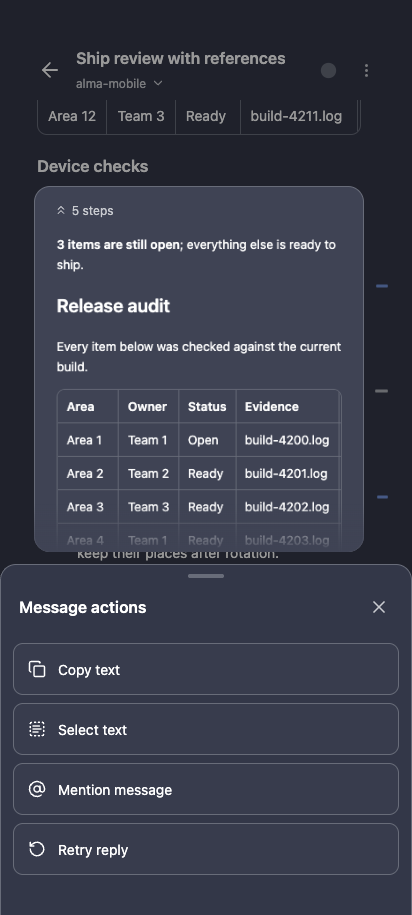
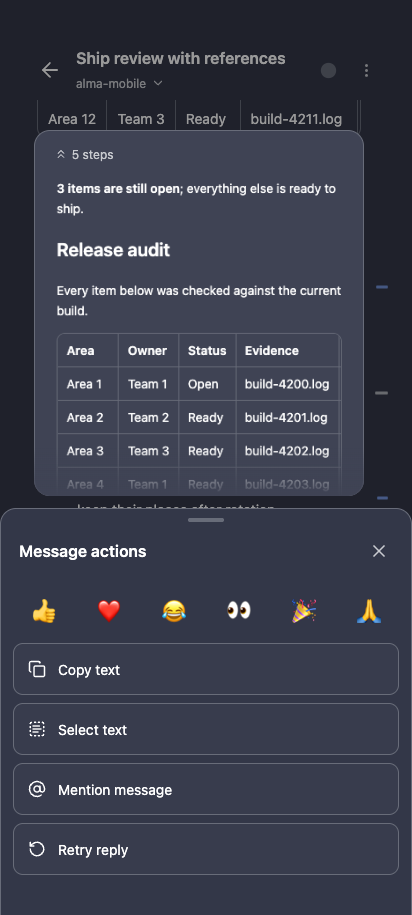
docs: README features for voice input, reactions, computer browser and Herdr on other computers

Changed region(s): [[0.0, 0.1224, 1.0, 0.7038]]

diff --git a/README.md b/README.md
@@ -10,13 +10,13 @@ An unofficial Android client for [Alma Desktop](https://alma.now). Pair it with 
 
 ## Screenshots
 
-| Threads and the floating tab bar                                                                 | Alma                                                                                                   |
-| ------------------------------------------------------------------------------------------------ | ------------------------------------------------------------------------------------------------------ |
-| ![Thread list with the floating tab bar and Alma's thought bubble](docs/screenshots/threads.png) | ![Alma's conversation with her face in the header](docs/screenshots/alma.png)                          |
-| Conversation                                                                                     | Long-press preview and actions                                                                         |
-| ![Conversation with a code block](docs/screenshots/thread-code.png)                              | ![Reply preview card above the message actions with Retry reply](docs/screenshots/message-actions.png) |
-| Files and diffs                                                                                  | Settings (简体中文)                                                                                    |
-| ![Thread files and diff](docs/screenshots/files-diff.png)                                        | ![Settings in Simplified Chinese](docs/screenshots/settings-zh.png)                                    |
+| Threads and the floating tab bar                                                                 | Alma                                                                                                      |
+| ------------------------------------------------------------------------------------------------ | --------------------------------------------------------------------------------------------------------- |
+| ![Thread list with the floating tab bar and Alma's thought bubble](docs/screenshots/threads.png) | ![Alma's conversation with her face in the header](docs/screenshots/alma.png)                             |
+| Conversation                                                                                     | Long-press preview and actions                                                                            |
+| ![Conversation with a code block](docs/screenshots/thread-code.png)                              | ![Reply preview card above quick reactions and the message actions](docs/screenshots/message-actions.png) |
+| Files and diffs                                                                                  | Settings (简体中文)                                                                                       |
+| ![Thread files and diff](docs/screenshots/files-diff.png)                                        | ![Settings in Simplified Chinese](docs/screenshots/settings-zh.png)                                       |
 
 ### Herdr agents, remote desktop and updates
 
@@ -71,13 +71,16 @@ The app connects through Alma's official relay and, when the phone and desktop s
 - **Floating tab bar:** on phones a capsule with Threads, Alma and Herdr; GTD and Settings are icon buttons in the Threads header, and the current desktop's name in the page title opens the desktop switcher.
 - Threads, projects (with project cards and Recent threads), and GTD views
 - Streaming replies, tool calls, approvals, and user questions
-- Long-press a message for a reduced preview card above its actions; retry a reply or resend a failed message from there
+- Long-press a message for a reduced preview card above its actions; react with an emoji, retry a reply or resend a failed message from there
+- Emoji reactions as chips under each message, including the 👀 Alma adds when she starts on yours; tap your own to remove it (Alma desktop 0.4.434+)
 - Composer controls for model, reasoning effort, goals, and loops
 - Thread file panel with diffs, plus HTML and Markdown previews
 - Rich previews: KaTeX math, Mermaid diagrams, audio and video, PDF, CSV/XLSX and DOCX
 - Code-block copy, Android Share-to-Alma, and an image gallery
-- **Herdr coding agents:** for desktops running Herdr, board and list views of workspaces and sessions. Each session has a Chat view drawn with the same message components as threads, and a Terminal view with Fit/Grid layouts, on-demand scrollback and virtual keys. Answer an agent's permission menu from the chat or the session list, use slash commands, follow subagents, mute noisy workspaces, and get an "Agent needs you" alert.
+- **Voice input:** switch a thread or Herdr composer to voice, hold the bar to talk, and release to send, or slide to cancel or to edit the text first. It uses your own key for Soniox (real-time or async), OpenAI, Groq, SiliconFlow or a custom OpenAI-compatible endpoint, falling back to the next engine on failure. Voice messages play in a capsule (Alma desktop 0.4.528+).
+- **Herdr coding agents:** for desktops running Herdr, board and list views of workspaces and sessions. Each session has a Chat view drawn with the same message components as threads, and a Terminal view with Fit/Grid layouts, on-demand scrollback and virtual keys. Answer an agent's permission menu from the chat or the session list, use slash commands, follow subagents, mute noisy workspaces, and get an "Agent needs you" alert. Switch the Herdr page to another computer the desktop reaches, install or start Herdr from the offline page, and start new sessions with the desktop's default agent.
 - **Remote desktop:** watch a paired desktop's screen and control it as a trackpad (tap to click, hold then move to drag, two fingers to scroll or right-click), type text, and wake a sleeping display. Pinch to zoom 1–4x or switch between Fit and 1:1, pan with one finger, and on macOS pick another display or a single app window to stream.
+- **Computer browser:** from a thread's menu, or the globe in its header while Alma has a browser open, watch and drive Alma's in-app browser on the desktop. Tap, scroll, pinch to zoom and type; go back, forward or reload; switch or open tabs; and open any address, including ones only the desktop can reach such as localhost.
 - **LAN direct:** on the same Wi-Fi the app talks to the desktop directly instead of through the relay; the switcher shows a Wi-Fi icon for LAN or a globe for the relay.
 - Multiple desktops with macOS, Windows or Linux icons and live latency
 - Desktop Base46 theme palettes
@@ -97,6 +100,7 @@ There is no push service. Notifications are generated locally from the live rela
 - Multiple desktops are isolated by pairing.
 - The pairing link is a full-access secret. See [SECURITY.md](SECURITY.md) before sharing diagnostics or reporting a vulnerability.
 - The client intentionally blocks known dangerous desktop routes that it does not need.
+- Voice input stays off until you add a speech engine key. Recordings go from the phone straight to the engines you turn on; each key is stored encrypted on the device and sent only to its provider's https/wss endpoint.
 
 The contributor-facing protocol notes are in [docs/protocol.md](docs/protocol.md).
 

diff --git a/README.zh-CN.md b/README.zh-CN.md
@@ -78,6 +78,10 @@
 - **0.1.4 新增 · 更好用的 Mac 控制：** 独立触控板区域；轻点是点击、滑动只移动光标、双指轻点是右键、双指滑动是滚动，长按或双击按住后拖动可以选文字。
 - **0.1.4 新增 · 桌面系统图标：** 已配对桌面显示 macOS、Windows 或 Linux 图标；桌面不支持屏幕共享时，Mac 屏幕会说明原因。
 - 丰富预览：KaTeX 公式、Mermaid 图表、音视频、PDF、CSV/XLSX 和 DOCX
+- **0.1.9 新增 · 语音输入：** 对话和 Herdr 的输入框可切到语音，按住说话、松手发送，滑到取消或编辑可先放弃或改字。使用你自己的 Soniox（实时或异步）、OpenAI、Groq、SiliconFlow 或自定义 OpenAI 兼容接口的 key，一个引擎失败自动换下一个。语音消息以胶囊播放（Alma 桌面 0.4.528 及以上）。
+- **0.1.9 新增 · 表情反应：** 消息下方显示表情反应，长按消息可快速回应，点自己的反应即可撤销（Alma 桌面 0.4.434 及以上）。
+- **0.1.9 新增 · 电脑浏览器：** 从对话菜单或标题栏的地球图标，实时查看并操作桌面上 Alma 的内置浏览器：点按、滚动、缩放、输入，前进后退刷新，切换或新开标签页，也能打开只有桌面能访问的地址（如 localhost）。
+- **0.1.9 新增 · 跨电脑 Herdr：** Herdr 页可切换到桌面能连到的其他电脑；Herdr 离线时可直接安装或启动；新会话默认使用桌面设定的 agent。
 
 ### 通知限制
 
@@ -90,6 +94,7 @@
 - 多台桌面端的配对彼此隔离。
 - 配对链接是完整访问密钥。分享诊断信息或报告漏洞前，请先阅读 [SECURITY.md](SECURITY.md)。
 - 客户端会主动阻止自身不需要的已知高风险桌面接口。
+- 语音输入在你添加语音引擎 key 之前不会启用。录音从手机直接发往你开启的引擎；每个 key 加密保存在设备上，只发送到对应服务商的 https/wss 地址。
 
 面向贡献者的协议说明见 [docs/protocol.md](docs/protocol.md)。
 
